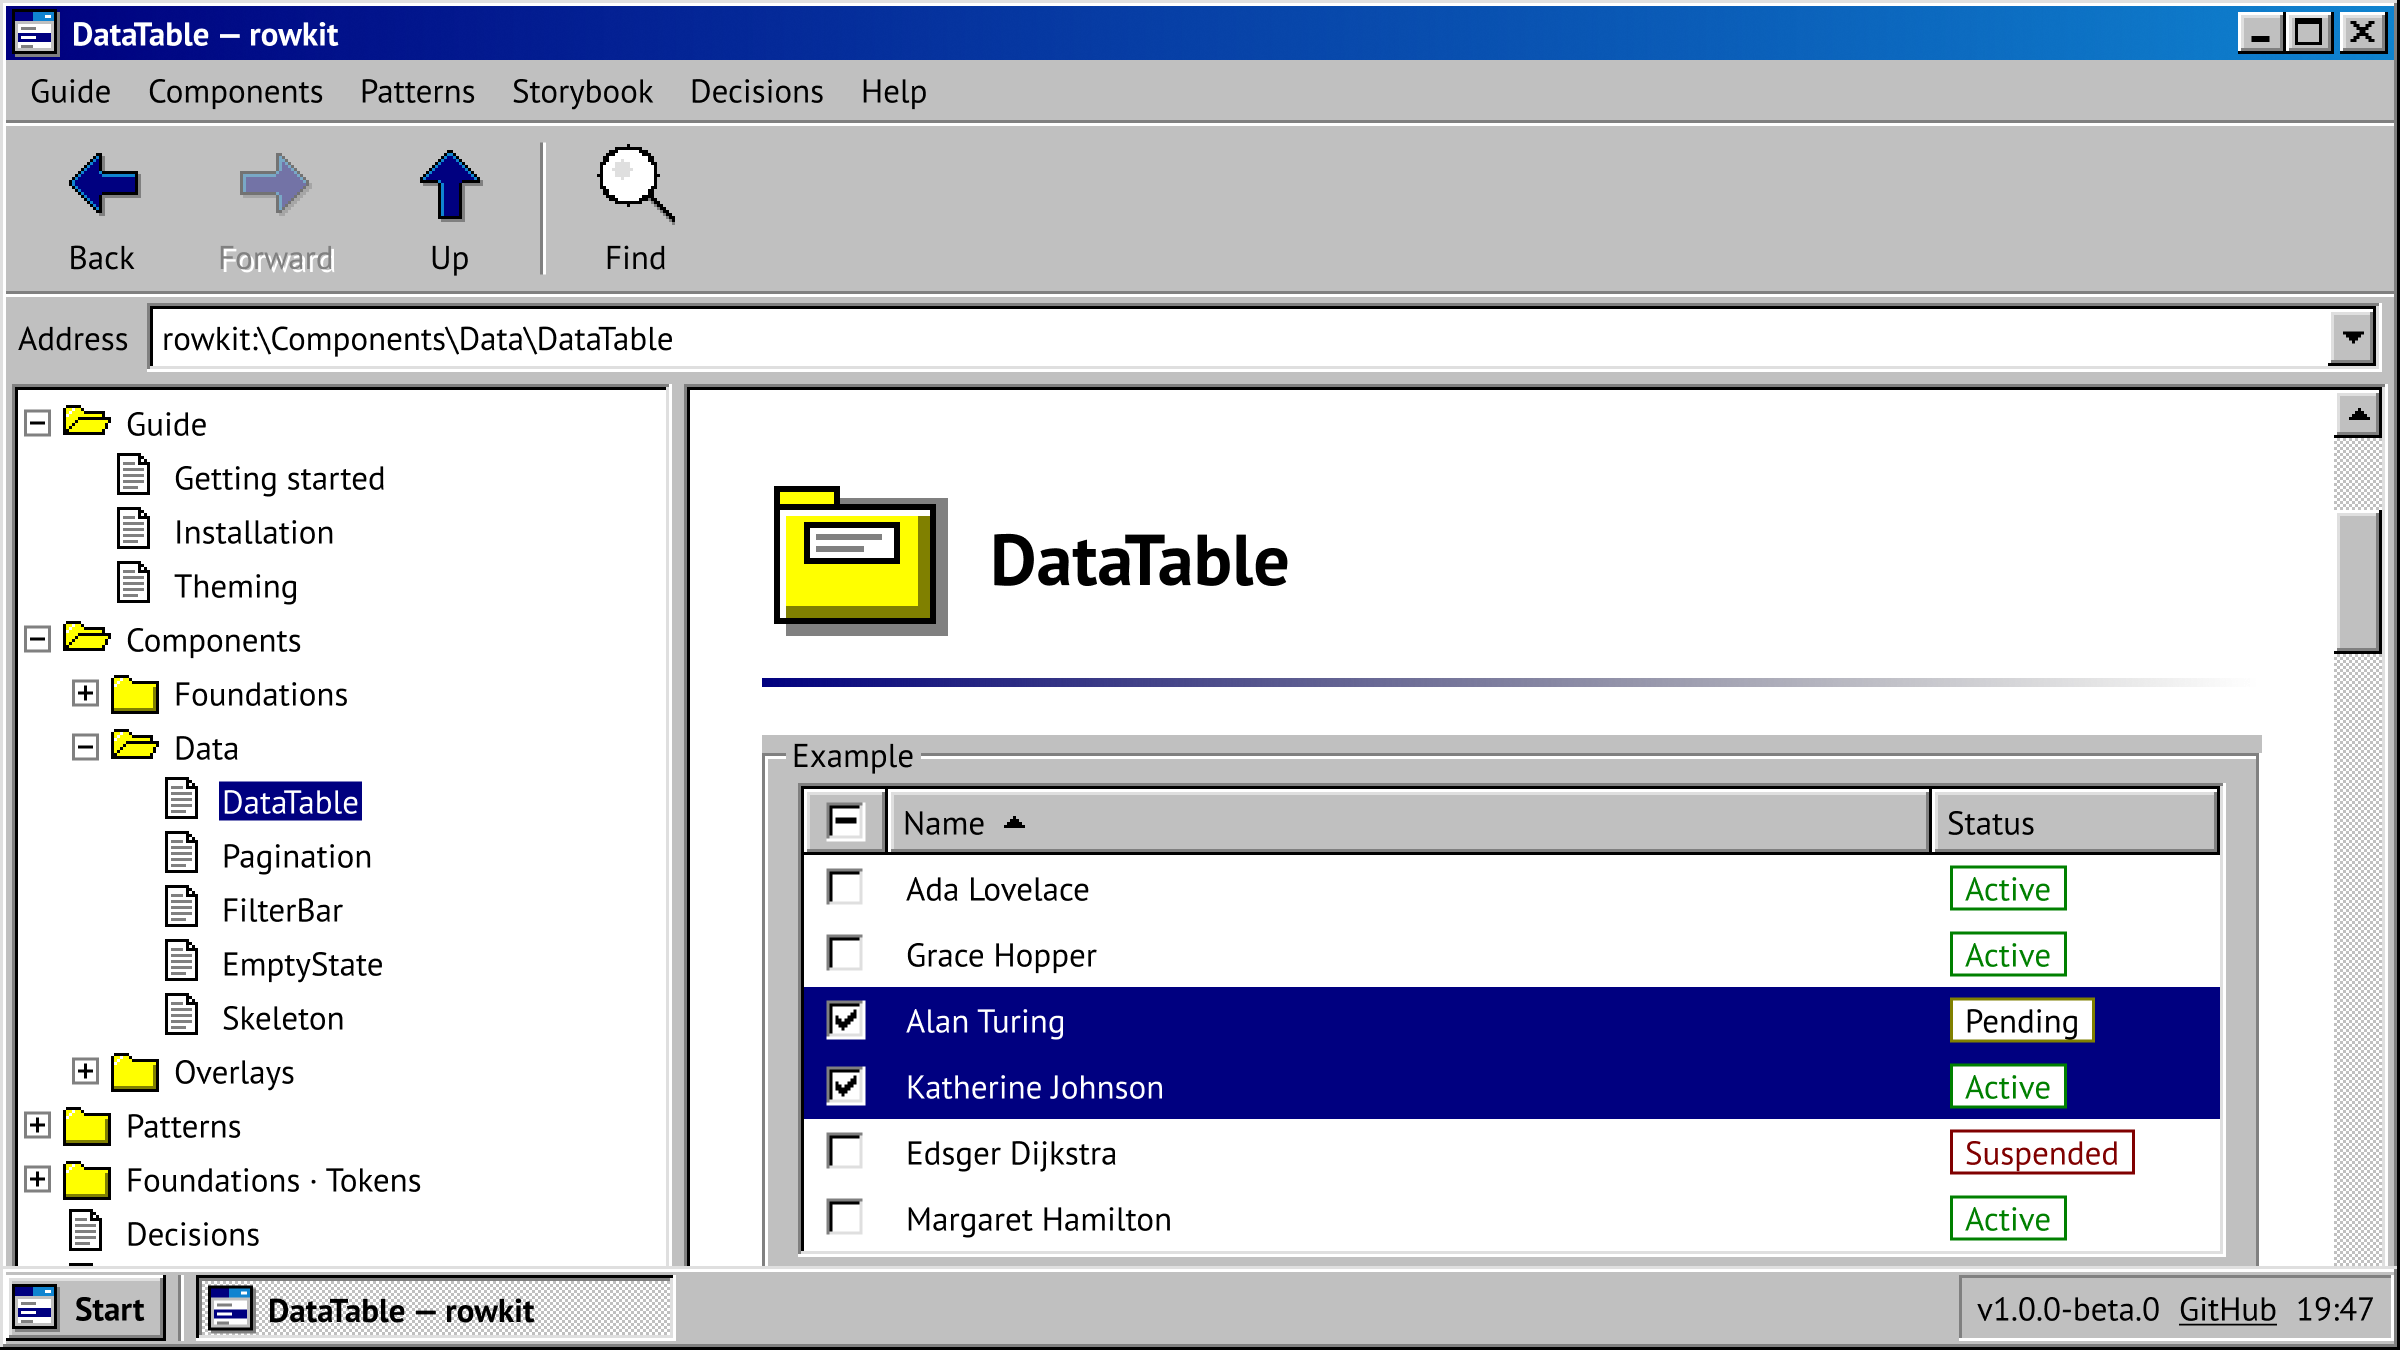
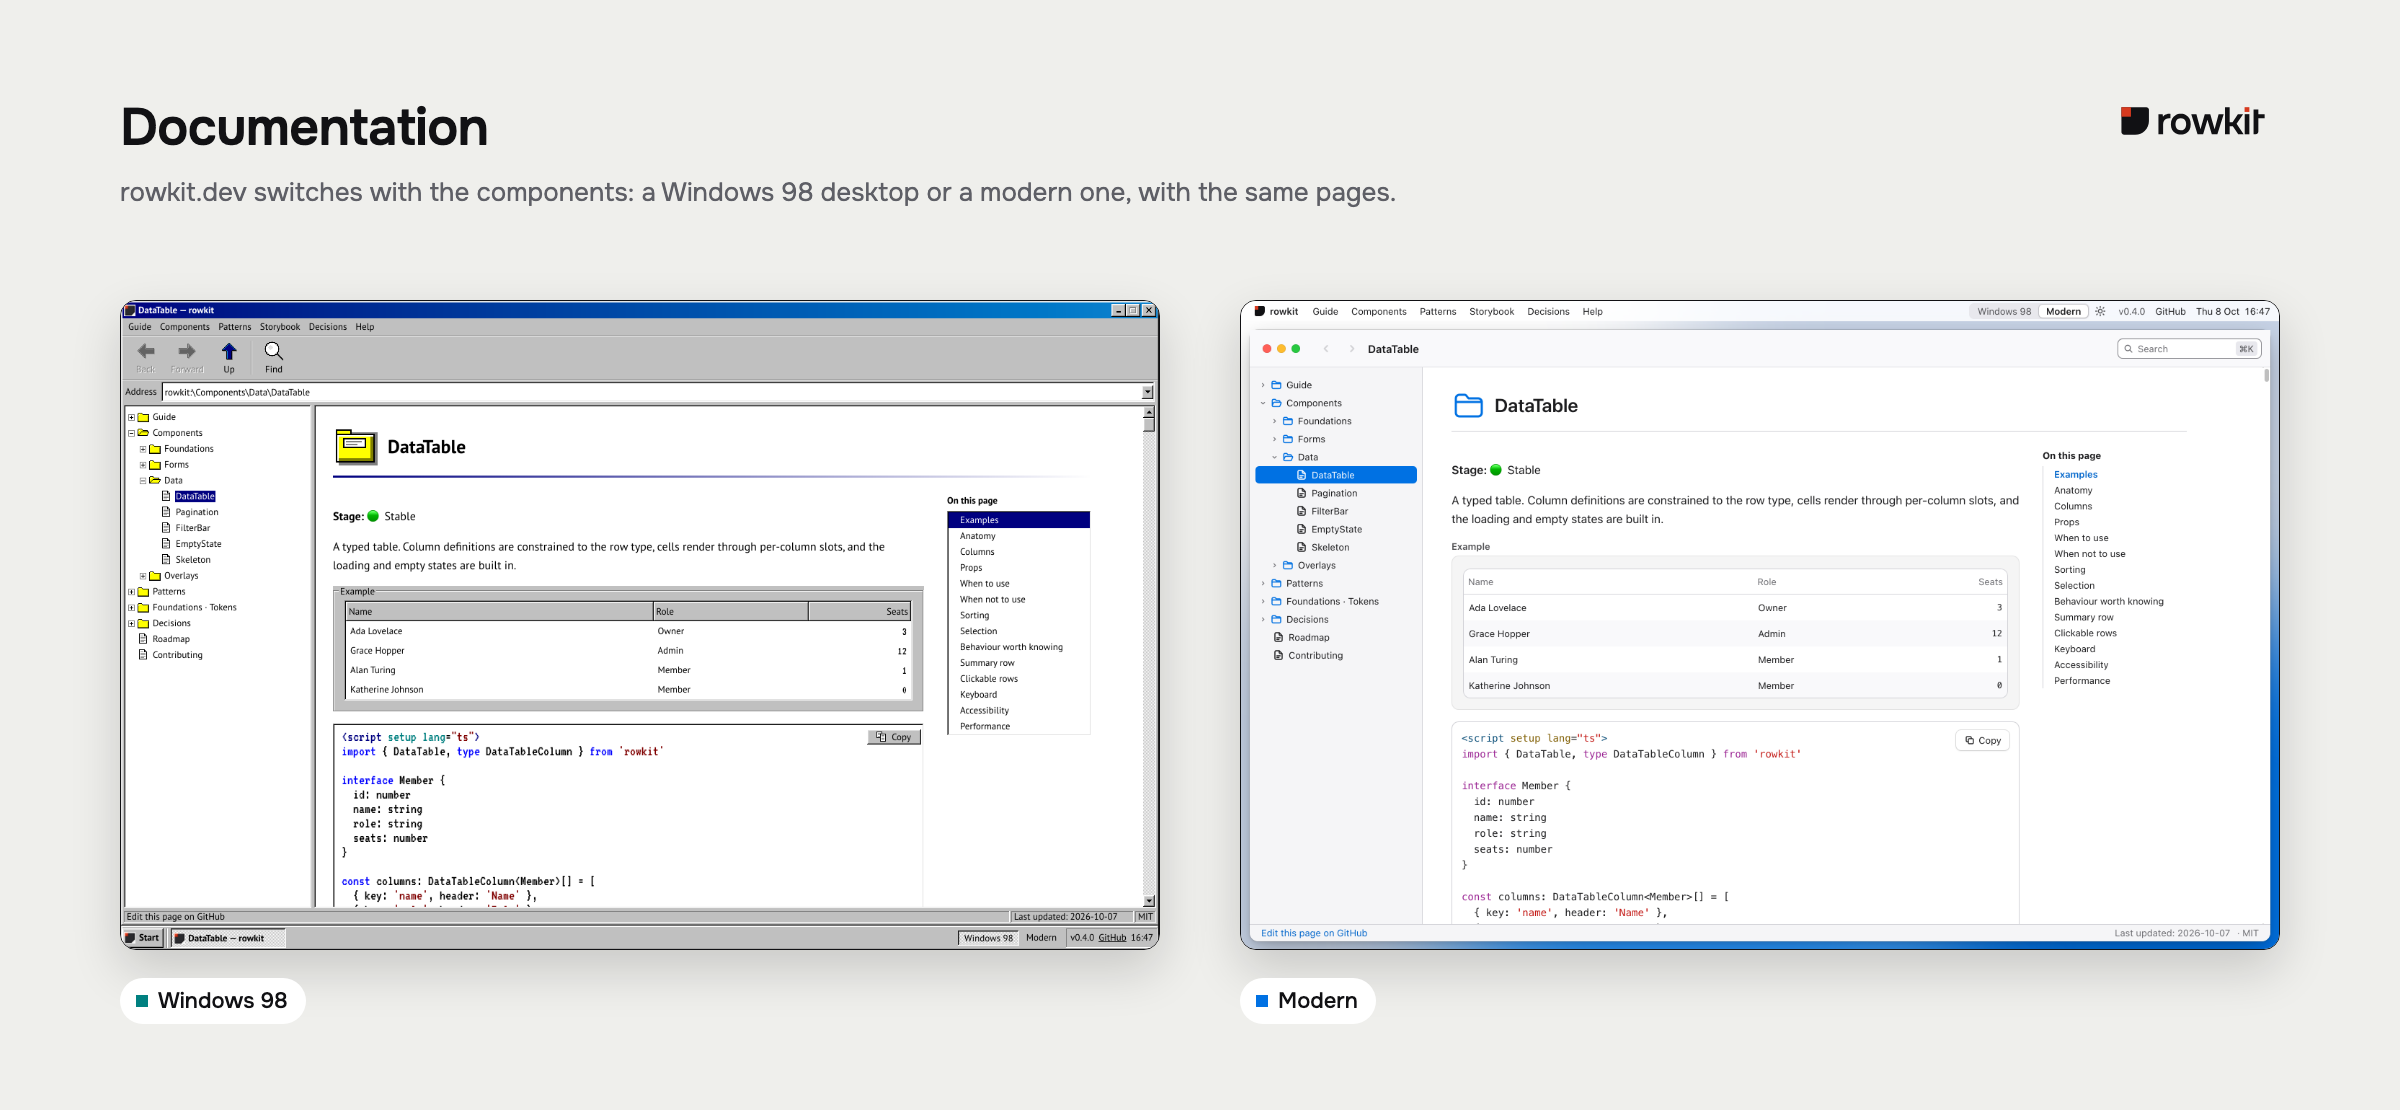
Brand: the README's three pictures, in the design's frames.
DataTable, Components and Documentation are framed as the Brand page
draws them — a title and a line under it in Onest, the logo, and the
two themes side by side with their labels — around real screenshots,
as the frames ask: the live demo and the DataTable page on rowkit.dev
at 1440×900, and a grid of the components themselves in Storybook.
Their alt text says what each now shows.

diff --git a/README.md b/README.md
@@ -27,7 +27,7 @@ A professional Vue 3 toolkit — the components a product interface is built fro
 
 A product interface is a set of components that have to agree: controls, overlays, tables, filters, empty and loading states. rowkit is that set, built as one toolkit — typed, with its own behaviour layer, from one token package. What is published today is the part already finished. The rest of the set is the plan in the [roadmap](./ROADMAP.md), not a second library to go and find.
 
-![A Users window: toolbar with New, Export and Delete, a FilterBar with one chip, a sorted DataTable with two selected rows and status badges, and Pagination in the status bar](https://raw.githubusercontent.com/NikolaiKushner/rowkit/main/docs/public/readme/datatable.png)
+![DataTable side by side in Windows 98 and the modern theme: the live demo on rowkit.dev — a toolbar, a FilterBar with one chip, a sorted table with a selected row and status badges, and Pagination in the status bar](https://raw.githubusercontent.com/NikolaiKushner/rowkit/main/docs/public/readme/datatable.png)
 
 ## What it looks like
 
@@ -53,11 +53,11 @@ export const acme = defineTheme({
 
 How it works, every value you can change, and a live builder: [Themes](https://rowkit.dev/foundations/themes). The modern theme's values are a draft until its Figma file is drawn.
 
-![The Components window: buttons and a toggle group, inputs and a select, badges, checkboxes and radios, pagination with a progress bar, and a field with an error](https://raw.githubusercontent.com/NikolaiKushner/rowkit/main/docs/public/readme/components.png)
+![The same components in Windows 98 and the modern theme: buttons and a button group, inputs and a select, badges, checkboxes and radios, pagination with a progress bar and a status bar, and a field with an error](https://raw.githubusercontent.com/NikolaiKushner/rowkit/main/docs/public/readme/components.png)
 
 The docs at [rowkit.dev](https://rowkit.dev) switch with it: in Windows 98 every page opens in an Explorer window, folder tree on the left; in the modern theme the site is a modern desktop, with a menu bar, a Dock and Finder-style windows. [`?theme=modern`](https://rowkit.dev/?theme=modern) opens it that way.
 
-![rowkit.dev: an Explorer window with the docs folder tree and the DataTable page with a live example](https://raw.githubusercontent.com/NikolaiKushner/rowkit/main/docs/public/readme/docs.png)
+![rowkit.dev in Windows 98 and the modern theme: the DataTable page with the folder tree and a live example, as an Explorer window and as a Finder window](https://raw.githubusercontent.com/NikolaiKushner/rowkit/main/docs/public/readme/docs.png)
 
 ## Install
 

diff --git a/design/integration.md b/design/integration.md
@@ -172,7 +172,7 @@
   - Modern — `modern-tile` и Dock-иконка 1024.
 - [x] 6.1 Полоса в меню «Пуск» (`wordmark alone`): новый wordmark.
 - [x] 6.2 README: hero с `<picture>` light/dark (оба README), бейдж npm цветом бренда; og-image и github-social-preview из Figma. Превью репозитория GitHub загружается вручную в Settings → Social preview.
-- [ ] 6.3 README: новые картинки. Экспорты `datatable` / `components` / `docs` — это рамки под настоящие скриншоты: снимаем их со сторибука и сайта.
+- [x] 6.3 README: новые картинки — рамки datatable / components / docs собраны по Figma вокруг настоящих скриншотов (сайт 1440×900, сетка компонентов из Storybook). Экспорты `datatable` / `components` / `docs` — это рамки под настоящие скриншоты: снимаем их со сторибука и сайта.
 - [ ] Onest (OFL) — только для бренд-графики. В UI-темы он не идёт.
 
 ## Шаг 7. Документация и выпуск
